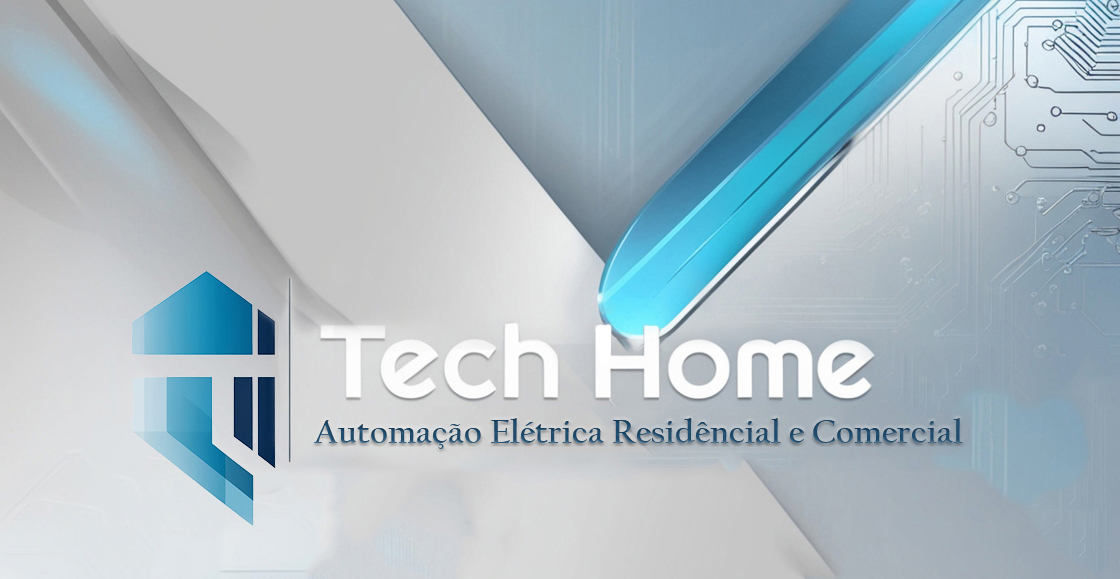
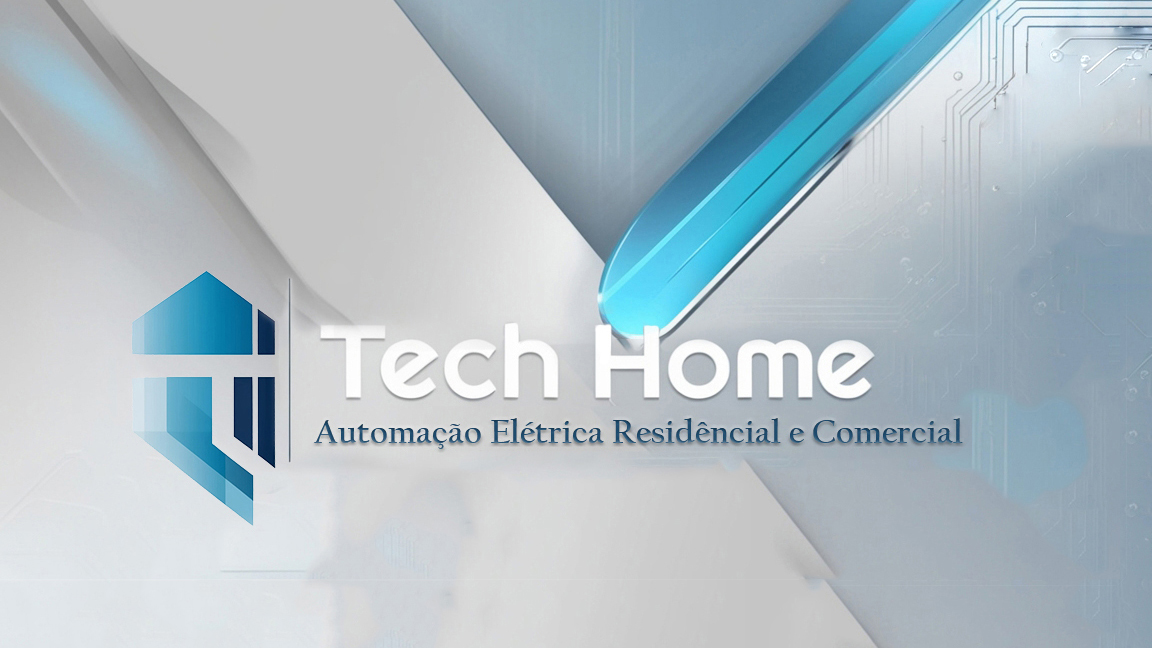
Update

diff --git a/style.css b/style.css
@@ -8,7 +8,7 @@ body {
     width: 100%;
     top: 0;
     left: 0;
-    background-image: url('img/land_3.jpg');
+    background-image: url('img/back_3.jpg');
     background-size: cover;
     background-attachment: fixed; /* Faz a imagem de fundo ficar fixa */
 }
@@ -139,7 +139,7 @@ nav li a:hover {
     }
 
     main {
-        width: 100%;
+        width: 90%;
         height: 28vh;
     }
 
@@ -161,13 +161,13 @@ nav li a:hover {
     .main_home {
         display: flex;
         flex-direction: column;
+        margin-top: 15%;
     }
 
     .introduction {
         display: flex;
         background: transparent;
         width: 100%;
-        height: 20vh;
         flex-direction: column;
         align-items: center;
         justify-content: space-around;
@@ -175,7 +175,7 @@ nav li a:hover {
     }
 
     .card-1 {
-        width: 100%;
+        width: 108%;
         height: 64vw;
     }
 
@@ -185,10 +185,45 @@ nav li a:hover {
         margin-right: 10%;
     }
 
+    .card-1 .icon {
+        margin: -13% -5%;
+    }
+    
+    .card-1 h2 {
+        font-size: 5.5vw;
+        color: #1d496c;
+    }
+    
+    .card-1 p {
+        color: #1d496c;
+        font-size: 3.6vw;
+    }
+    
+    .card-1 a {
+        background-color: #2fbcda;
+        color: #fff;
+        text-decoration: none;
+        font-size: 3.6vw;
+        padding: 2% 10%;
+        border-radius: 50px;
+    }
+    
+    .txt_card-1 {
+        width: 70%;
+        margin-left: 10%;
+    }
+    
+    .interruptor {
+        width: 30%;
+    }
+    
+    .interruptor img {
+        width: 100%;
+    }
+
     /* Estilos para o ícone do hamburger */
     .burger {
         position: absolute;
-        top: 20px;
         right: 20px;
         width: 30px;
         height: 30px;
@@ -222,7 +257,7 @@ nav li a:hover {
     nav ul {
         display: none; /* Hidden by default */
         position: fixed; /* Fixed positioning so it overlays the content */
-        top: 0;
+        top: -16px;
         left: 0;
         width: 100%;
         height: 100vh; /* Full height to cover the screen */
@@ -250,10 +285,17 @@ nav li a:hover {
 }
 
 .container-2 {
-    height: 80vh;
+    height: 100vh;
+}
+
+@media (max-width: 768px) {
+    .container-2 {
+        height: 50vh;
+    }
 }
 
 .container-3 {
+    width: 100%;
     background-color: #fff;
     display: flex;
     flex-direction: row;
@@ -266,9 +308,9 @@ nav li a:hover {
     background-color: #fff;
     width: 35%;
     height: 20vw;
-    margin: 13% 0% 0% -18%;
+    margin: 20% 0% 0% -18%;
     padding: 0% 0 2% 5%;
-    box-shadow: none;
+    box-shadow: 0 4px 8px rgba(19, 69, 97, 0.1);
 }
 
 .card-2 .icon-2 {
@@ -300,12 +342,43 @@ nav li a:hover {
 }
 
 .img_principal {
-    width: 60%;
+    width: 64%;
     padding: 0 0% 0 7%;
+    margin: 5% 0;
 }
 
 .sala_tv {
     width: 90%;
     border-radius: 0 55px 55px 0;
     margin: 4% 0% 4% -8%;
+}
+
+@media (max-width: 768px) {
+    .container-3 {
+        display: flex;
+        flex-direction: column;
+        width: 125%;
+    }
+
+    .card-2 {
+        width: 100%;
+        margin: 10% 0%;
+        box-shadow: none;
+    }
+
+    .img_principal {
+        width: 104%;
+    }
+
+    .txt_card-2 h2 {
+        font-size: 5.5vw;
+    }
+
+    .txt_card-2 p {
+        font-size: 3.6vw;
+    }
+
+    .txt_card-2 a {
+        font-size: 3.6vw;
+    }
 }
